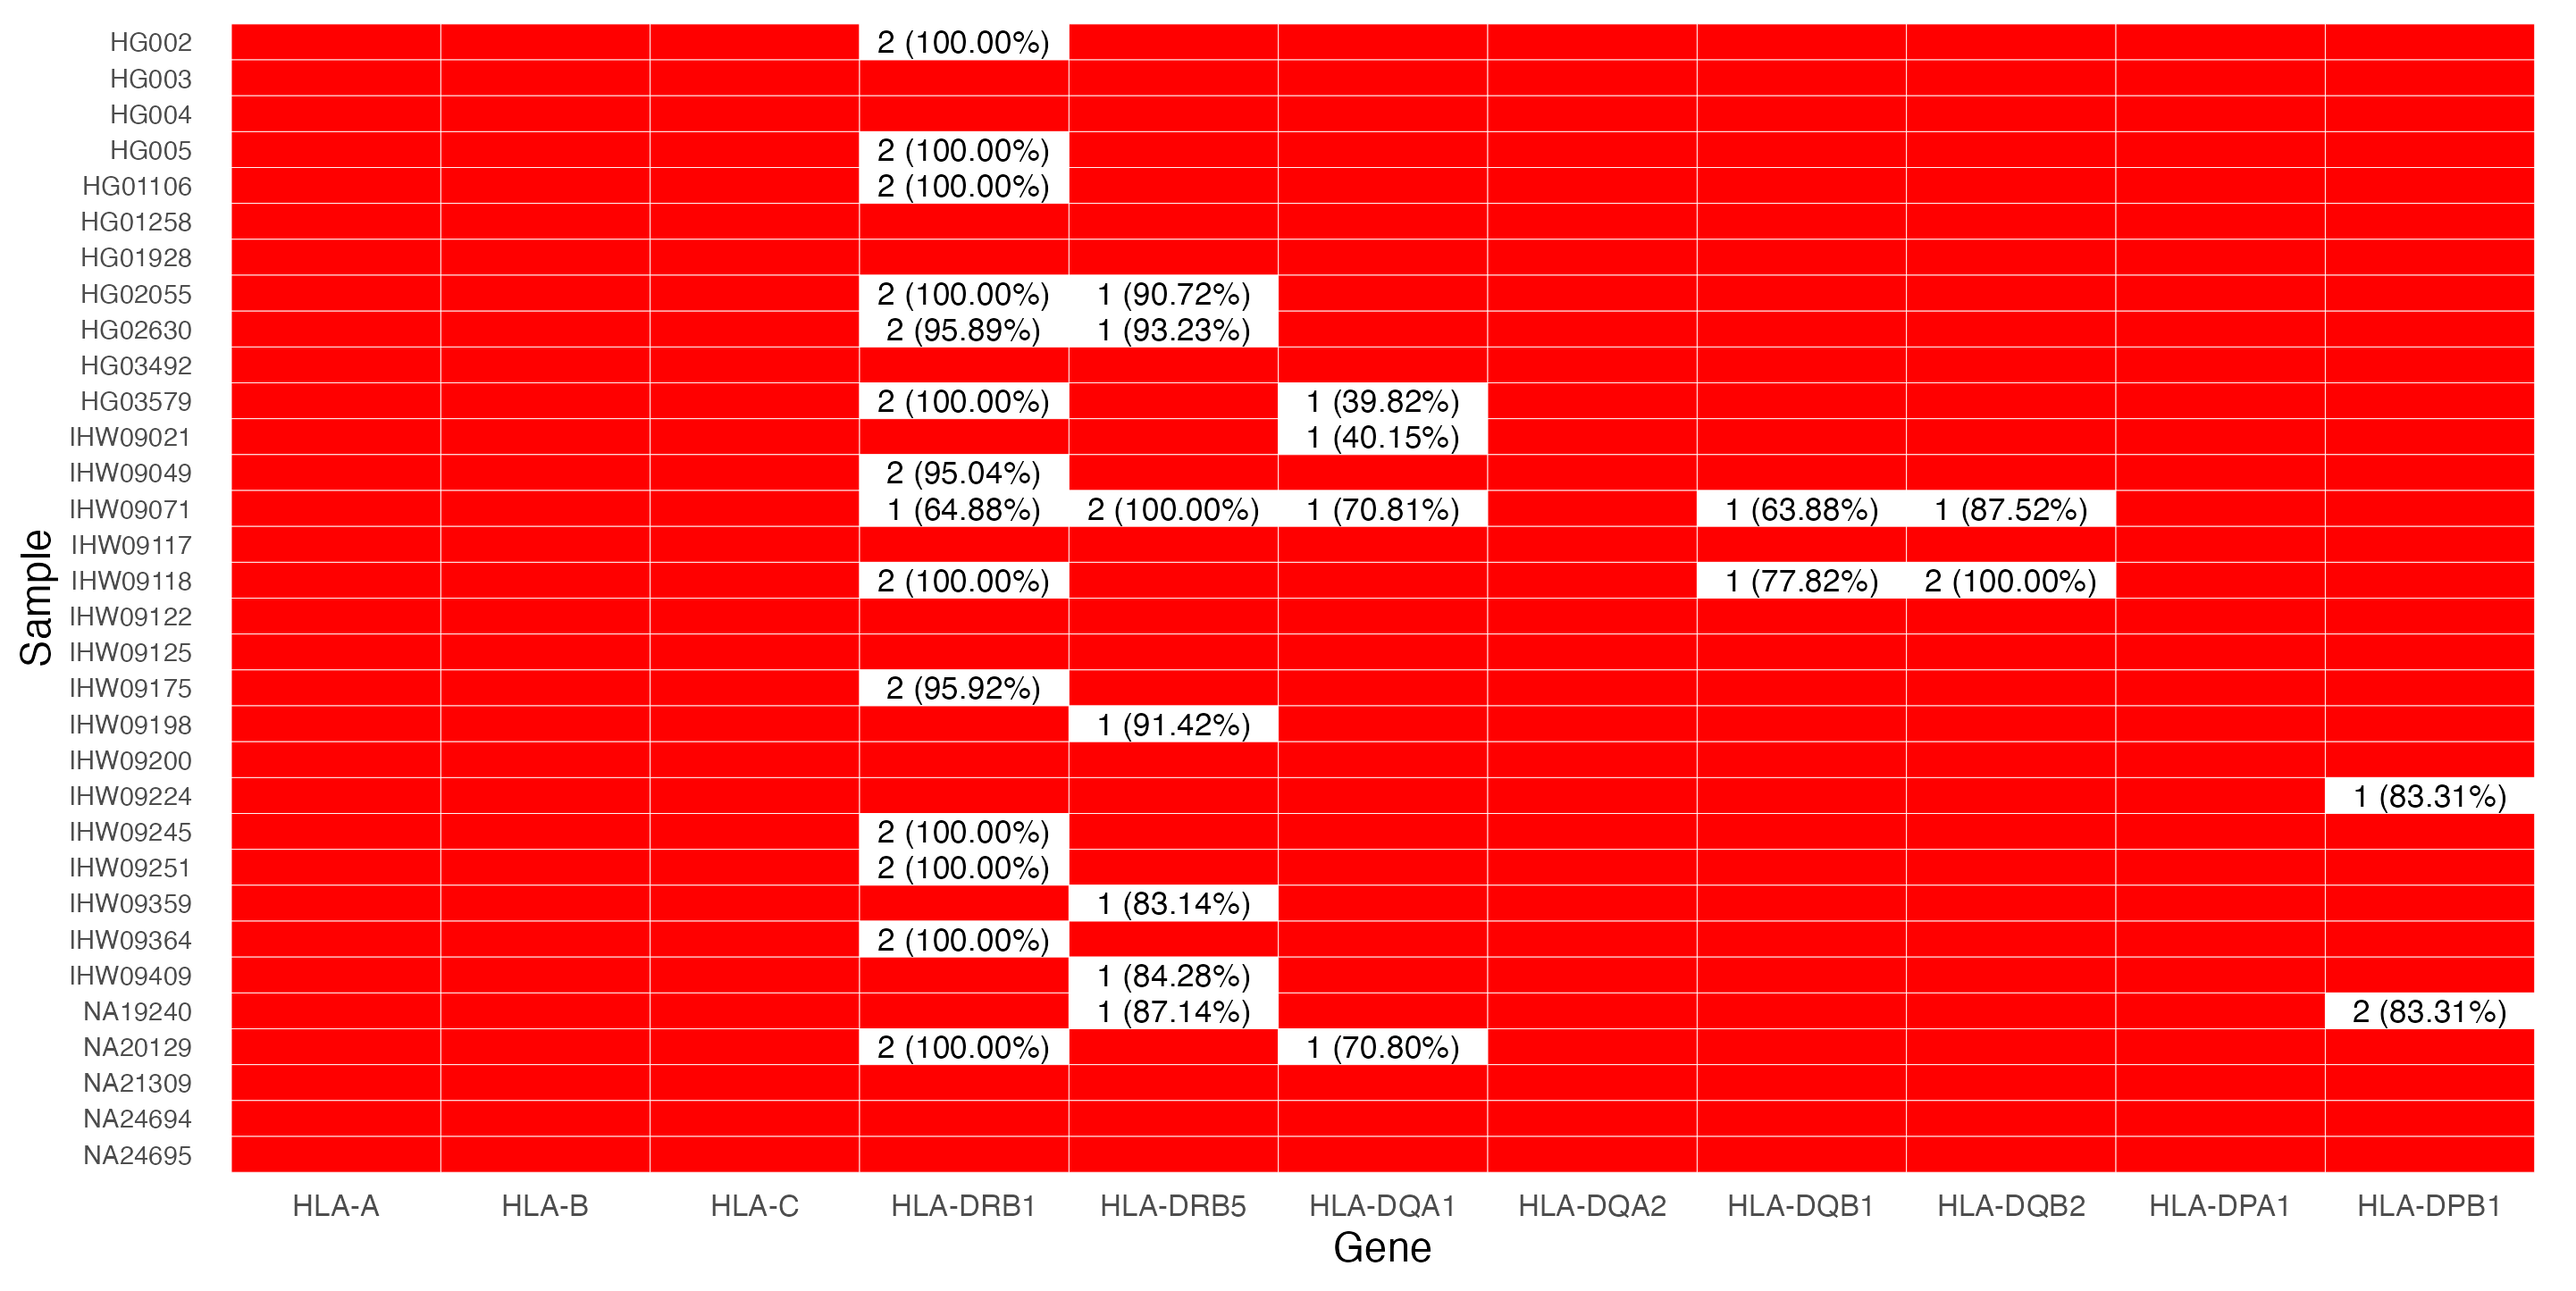
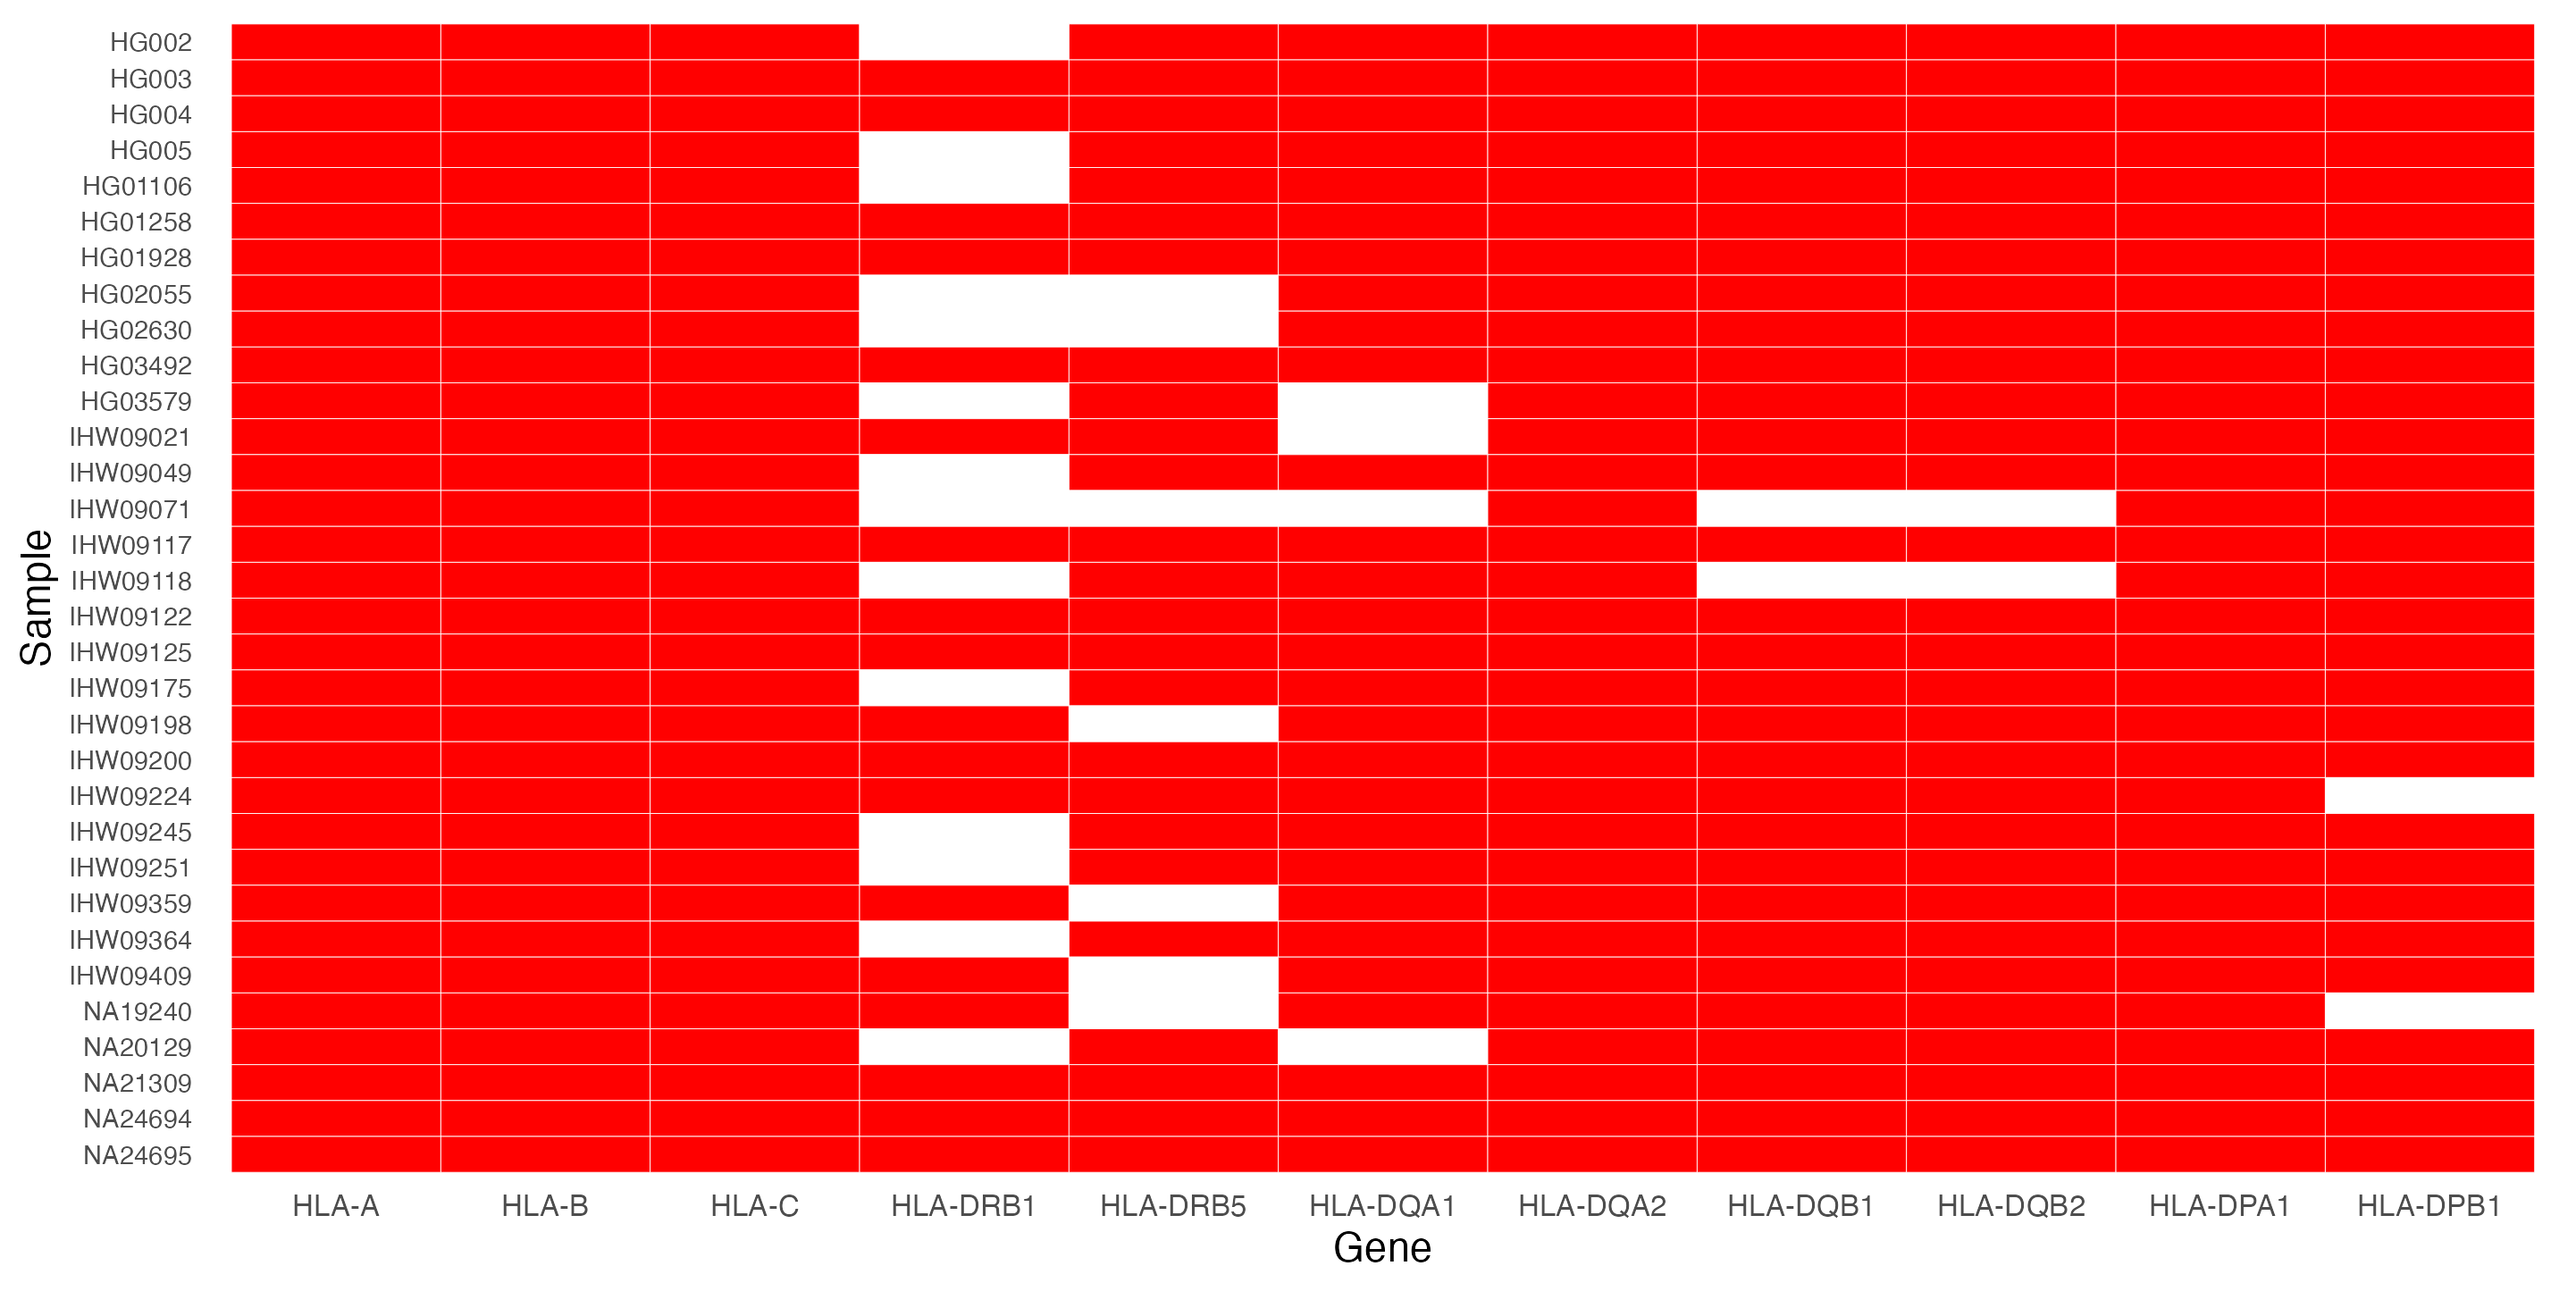
update

diff --git a/scripts/newest_parse_haploblocks.py b/scripts/newest_parse_haploblocks.py
@@ -24,13 +24,16 @@ gene_haploblock_dict = {sample: [] for sample in samples}
 
 incomplete_data = []
 
-hla_start = 29722774
-hla_stop = 33129084
+# Extended MHC coordinates
+mhc_start = 29555628
+mhc_stop = 33409896
 
 # Output files
 phased_genes_by_sample_csv = "phased_genes.tsv"
 phased_genes_by_sample_json = "phased_genes.json"
 phase_map_csv = "phase_map.csv"
+
+# For unphased genes of interest, [gene, sample, haploblocks, prop_bases_phased]
 incomplete_file = "incomplete.csv"
 
 # Populate dictionary of captured genes with gene name and start and stop coordinates
@@ -50,16 +53,13 @@ def load_heterozygous_variants():
 	for sample in samples:
 		vcf_file = os.path.join(vcf_dir, f"{sample}.dedup.trimmed.hg38.chr6.phased.vcf.gz")
 
-		if not os.path.exists(vcf_file):
-			#print(f"❌ Warning: VCF file missing for {sample}")
-			continue  # Skip missing files
-
-		#print(f"✅ Found VCF file for {sample}")
-
 		vcf = pysam.VariantFile(vcf_file)
 
 		for record in vcf:
 			if record.chrom != "chr6":
+				continue
+
+			if record.pos < mhc_start or record.pos > mhc_stop:
 				continue
 
 			genotype = record.samples[sample]["GT"]
@@ -67,30 +67,20 @@ def load_heterozygous_variants():
 			if genotype in [(0, 1), (1, 0)]:
 				heterozygous_sites[sample]["chr6"].append(record.pos)
 
-		#print(f"➡ Loaded {len(heterozygous_sites[sample]['chr6'])} heterozygous sites for {sample}")
+		print(f"Sample {sample} has {len(heterozygous_sites[sample]['chr6'])} heterozygous extended MHC genotypes")
 
-	#print("Final heterozygous_sites dictionary keys:", heterozygous_sites.keys())  # Check which samples were added
 	return heterozygous_sites
 
-# Get list of HiPhase haploblock intervals for chromosome 6
-# An alternative approach (from HiPhase): bedtools intersect -a genes_of_interest.bed -b sample.hiphase.haploblocks.bed -f 1.0 -wa 
+# Get list of HiPhase haploblock intervals for MHC
 def parse_haploblocks(sample, het_sites):
-	#print(f"Processing {sample}: Received {len(het_sites)} heterozygous sites")
 	haploblock_list = []
 	
 	haploblock_file = os.path.join(haploblock_dir, f"{sample}.phased.blocks.txt")
 
-	if not os.path.exists(haploblock_file):
-		#print(f"❌ Missing haploblock file for {sample}")
-		return sample, []
-
-	#print(f"✅ Processing haploblock file for {sample}")
+	print(f"Parsing {sample} haploblock file!")
 
 	with open(haploblock_file, "r") as f:
 		haploblocks = f.read().splitlines()
-
-	#if not het_sites:
-		#print(f"⚠ Warning: No heterozygous sites found for {sample}, skipping haploblock extension.")
 
 	for line in haploblocks[1:]:
 		fields = line.split("\t")
@@ -98,15 +88,20 @@ def parse_haploblocks(sample, het_sites):
 		start = int(fields[4]) - 1
 		stop = int(fields[5])
 
-		if chromosome == "chr6" and stop > hla_start:
+		if chromosome == "chr6" and stop > mhc_start:
 			haploblock_list.append([start,stop])
 
 	return sample, haploblock_list
 
 # Check whether each captured MHC gene is completely spanned by a haploblock
 def evaluate_gene_haploblocks(sample, het_sites):
+	# List of fully phased genes
 	gene_list = []
+	
+	# List of genes with partially overlapping haploblock
 	sample_incomplete_data = []
+	
+
 	haploblocks = haploblock_dict[sample]
 
 	for gene in genes_dict:
@@ -114,51 +109,56 @@ def evaluate_gene_haploblocks(sample, het_sites):
 		gene_stop = genes_dict[gene][1]
 		gene_length = gene_stop - gene_start
 
-		gene_het_sites = [site for site in het_sites if gene_start <= site <= gene_stop]
+		gene_het_sites = [site for site in het_sites if site >= gene_start and site <= gene_stop]
+
+		# If the gene has 0 or 1 heterozygous sites, it is effectively fully phased
 		if len(gene_het_sites) <= 1:
 			gene_list.append(gene)
 			continue
 
+		# If the gene is completely spanned by a single haploblock, it is fully phased 
 		fully_phased = False
-
 		for block_start, block_stop in haploblocks:
 			if block_start <= gene_start and block_stop >= gene_stop:
 				gene_list.append(gene)
 				fully_phased = True
 				break
 
-			extended_start = max([h for h in het_sites if h < block_start], default=gene_start)
-			extended_start = max(extended_start, gene_start)
+			# Check to see if unphased genes become fully phased when extending haploblocks through homozygous regions
+			# Find first heterozygous site upstream of block start. Do not extend if no heterozygous sites. 
+			if block_start <= gene_stop and block_stop >= gene_start:
+				extended_start = max([h for h in het_sites if h < block_start], default=block_start)
+				extended_start = max(extended_start, gene_start)
 
-			extended_stop = min([h for h in het_sites if h > block_stop], default=gene_stop)
-			extended_stop = min(extended_stop, gene_stop)
+				# Find first heterozgyous site downstream of block stop. Do not extend if no heterozygous sites
+				extended_stop = min([h for h in het_sites if h > block_stop], default=block_stop)
+				extended_stop = min(extended_stop, gene_stop)
 
-			if extended_start <= gene_start and extended_stop >= gene_stop:
-				gene_list.append(gene)
-				fully_phased = True
-				break
+				# Consider gene fully phased if haploblock extension through homozygous bases fully spans gene coordinates. 
+				if extended_start <= gene_start and extended_stop >= gene_stop:
+					gene_list.append(gene)
+					fully_phased = True
+					break
 
+		# Get details on haploblock overlap for genes of interest (HLA Class I/II) that were not fully phased 
 		if not fully_phased and gene in genes_of_interest:
-			overlapping_haploblocks = [
-				(b[0], b[1]) for b in haploblocks if not (b[1] < gene_start or b[0] > gene_stop)
-			]
+			overlapping_haploblocks = [(block_start, block_stop) for (block_start, block_stop) in haploblocks if (block_stop >= gene_start and block_start <= gene_stop)]
 			num_pre_merge_haploblocks = len(overlapping_haploblocks)  # Track count before extension & merging
-
-			print(f"\n🔎 DEBUG - {sample}, {gene}: Processing gene at {gene_start}-{gene_stop}")
-			print(f"  ➡ Overlapping unextended haploblocks: {overlapping_haploblocks} (Count: {num_pre_merge_haploblocks})")
+			print(f"Processing {sample} {gene}")
+			print(f"Overlapping unextended haploblocks: {len(overlapping_haploblocks)}")
 
 			# Step 1: Extend each haploblock independently
 			extended_haploblocks = []
 			for block_start, block_stop in overlapping_haploblocks:
-				extended_start = max([h for h in het_sites if h < block_start], default=gene_start)
+				extended_start = max([h for h in het_sites if h < block_start], default=block_start)
 				extended_start = max(extended_start, gene_start)
 
-				extended_stop = min([h for h in het_sites if h > block_stop], default=gene_stop)
+				extended_stop = min([h for h in het_sites if h > block_stop], default=block_stop)
 				extended_stop = min(extended_stop, gene_stop)
 
 				extended_haploblocks.append((extended_start, extended_stop))
 
-			print(f"  🔄 Extended haploblocks: {extended_haploblocks} (Pre-Merge Count: {len(extended_haploblocks)})")
+			print(f"Extended haploblocks: {len(extended_haploblocks)}")
 
 			# Step 2: Merge overlapping extended haploblocks
 			merged_intervals = []
@@ -168,28 +168,29 @@ def evaluate_gene_haploblocks(sample, het_sites):
 				if not merged_intervals or start > merged_intervals[-1][1]:
 					merged_intervals.append((start, stop))
 				else:
-					merged_intervals[-1] = (merged_intervals[-1][0], max(merged_intervals[-1][1], stop))
+					last_start, last_stop = merged_intervals[-1]
+					new_stop = max(last_stop, stop)
+					merged_intervals[-1] = (last_start, new_stop)
 
-			print(f"  🔀 Merged haploblocks: {merged_intervals} (Final Count: {len(merged_intervals)})")
+			print(f"Merged haploblocks: {len(merged_intervals)}")
 
 			# Step 3: Compute overlap & percentage
-			total_overlap = sum(max(0, min(stop, gene_stop) - max(start, gene_start)) for start, stop in merged_intervals)
-			prop_overlap = min(total_overlap / gene_length, 1.0)
-			prop_phased_str = f"{prop_overlap * 100:.2f}%"
+			total_overlap = 0
+			for start, stop in merged_intervals:
+				overlap_start = max(start, gene_start)
+				overlap_stop = min(stop, gene_stop)
+				overlap_length = max(0, overlap_stop - overlap_start)
+				total_overlap += overlap_length
+			prop_overlap = total_overlap / gene_length
+			prop_phased_string = f"{prop_overlap * 100:.2f}%"
 
-			# ✅ Use the **PRE-MERGE** haploblock count, not merged count!
-			sample_incomplete_data.append([sample, gene, num_pre_merge_haploblocks, prop_phased_str])
-			print(f"✅ FINAL DEBUG: {sample}, {gene}, Pre-Merge Haploblocks: {num_pre_merge_haploblocks}, Prop Phased: {prop_phased_str}")
-
+			# Use the pre-merge haploblock count, not merged count!
+			sample_incomplete_data.append([sample, gene, num_pre_merge_haploblocks, prop_phased_string])
+			print(f"{sample} {gene}, Pre-Merge Haploblocks: {num_pre_merge_haploblocks}, Prop Phased: {prop_phased_string}")
 
 	return sample, gene_list, sample_incomplete_data
 
 def write_results():
-	# Debug: Check if any data was collected
-	print(f"🔍 DEBUG: Number of incomplete entries: {len(incomplete_data)}")
-	for entry in incomplete_data[:5]:  # Print the first 5 entries to check
-		print(entry)
-
 	# Write fully phased genes
 	with open(phased_genes_by_sample_csv, "w", newline="") as csv_file:
 		writer = csv.writer(csv_file, delimiter="\t")
@@ -200,15 +201,12 @@ def write_results():
 	with open(phased_genes_by_sample_json, "w") as json_file:
 		json.dump(gene_haploblock_dict, json_file, indent=4)
 
-	# Write incomplete.csv only if there are entries
+	# Write incomplete.csv if there are entries 
 	if incomplete_data:
 		with open(incomplete_file, "w", newline="") as csvfile:
 			csv_writer = csv.writer(csvfile)
-			csv_writer.writerow(["sample", "gene", "num_haploblocks", "prop_phased"])  # Header
-			csv_writer.writerows(incomplete_data)  # Write all collected data at once
-	else:
-		print("⚠ WARNING: No incomplete genes found. incomplete.csv will be empty.")
-
+			csv_writer.writerow(["sample", "gene", "num_haploblocks", "prop_phased"])
+			csv_writer.writerows(incomplete_data)
 
 def make_heatmap_data():
 	phased_count_dict = {gene: 0 for gene in genes_of_interest}
@@ -245,19 +243,17 @@ def main():
 	heterozygous_sites = load_heterozygous_variants()
 
 	haploblocks_by_sample = Parallel(n_jobs=10)(
-		delayed(parse_haploblocks)(sample, heterozygous_sites.get(sample, {}).get("chr6", [])) for sample in samples
-	)
+		delayed(parse_haploblocks)(sample, heterozygous_sites.get(sample, {}).get("chr6", [])) for sample in samples)
 
 	for sample, haploblock_list in haploblocks_by_sample:
 		haploblock_dict[sample] = haploblock_list
 
 	genes_by_haploblock = Parallel(n_jobs=10)(
-		delayed(evaluate_gene_haploblocks)(sample, heterozygous_sites.get(sample, {}).get("chr6", [])) for sample in samples
-	)
+		delayed(evaluate_gene_haploblocks)(sample, heterozygous_sites.get(sample, {}).get("chr6", [])) for sample in samples)
 
 	for sample, gene_list, sample_incomplete_data in genes_by_haploblock:
 		gene_haploblock_dict[sample] = gene_list
-		incomplete_data.extend(sample_incomplete_data)  # Collect all returned incomplete data
+		incomplete_data.extend(sample_incomplete_data)
 
 	write_results()
 	make_heatmap_data()
